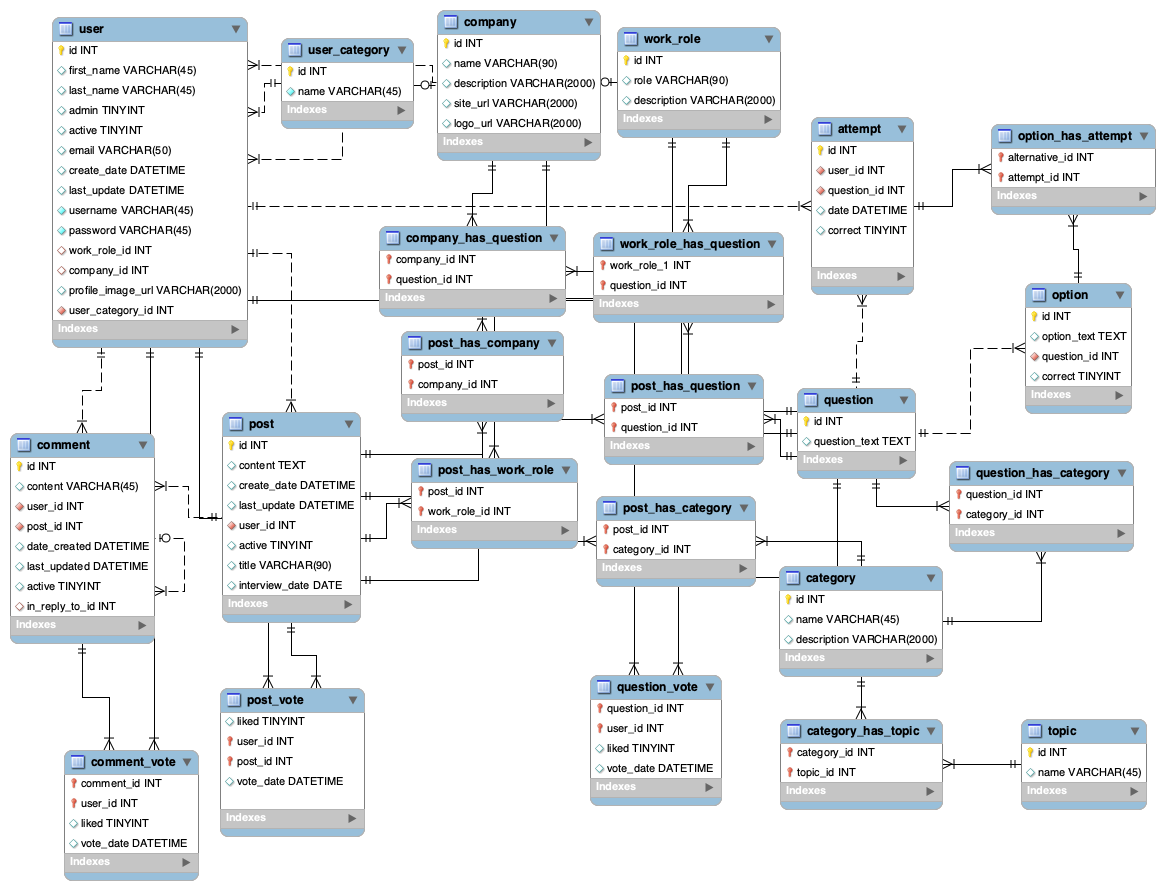
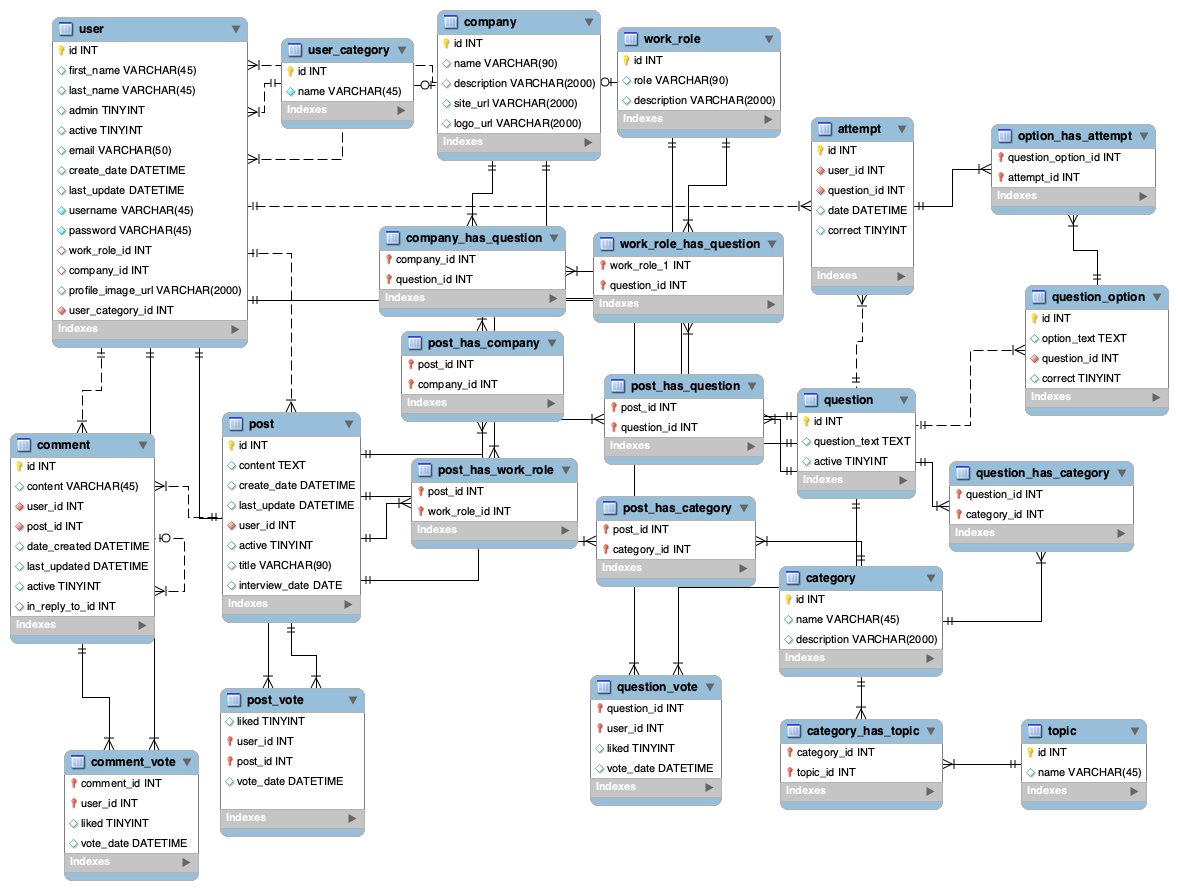
Updated database, added 'active' column to 'question' table

diff --git a/InsideScoop/src/main/webapp/css/styles.css b/InsideScoop/src/main/webapp/css/styles.css
@@ -3,7 +3,7 @@ ul {
 	margin: 0;
 	padding: 0;
 	overflow: hidden;
-	background-color: #666;
+	background-color: #FFFDD0;
 	position: fixed;
 	top: 0;
 	width: 100%;
@@ -23,9 +23,13 @@ li a {
 }
 
 li a:hover {
-	background-color: #111;
+	background-color: #F3E0B0;
 }
 
 .active {
-	background-color: #4CAF50;
+	background-color: #F3E0B0;
+}
+
+body {
+	background-color: white;
 }
